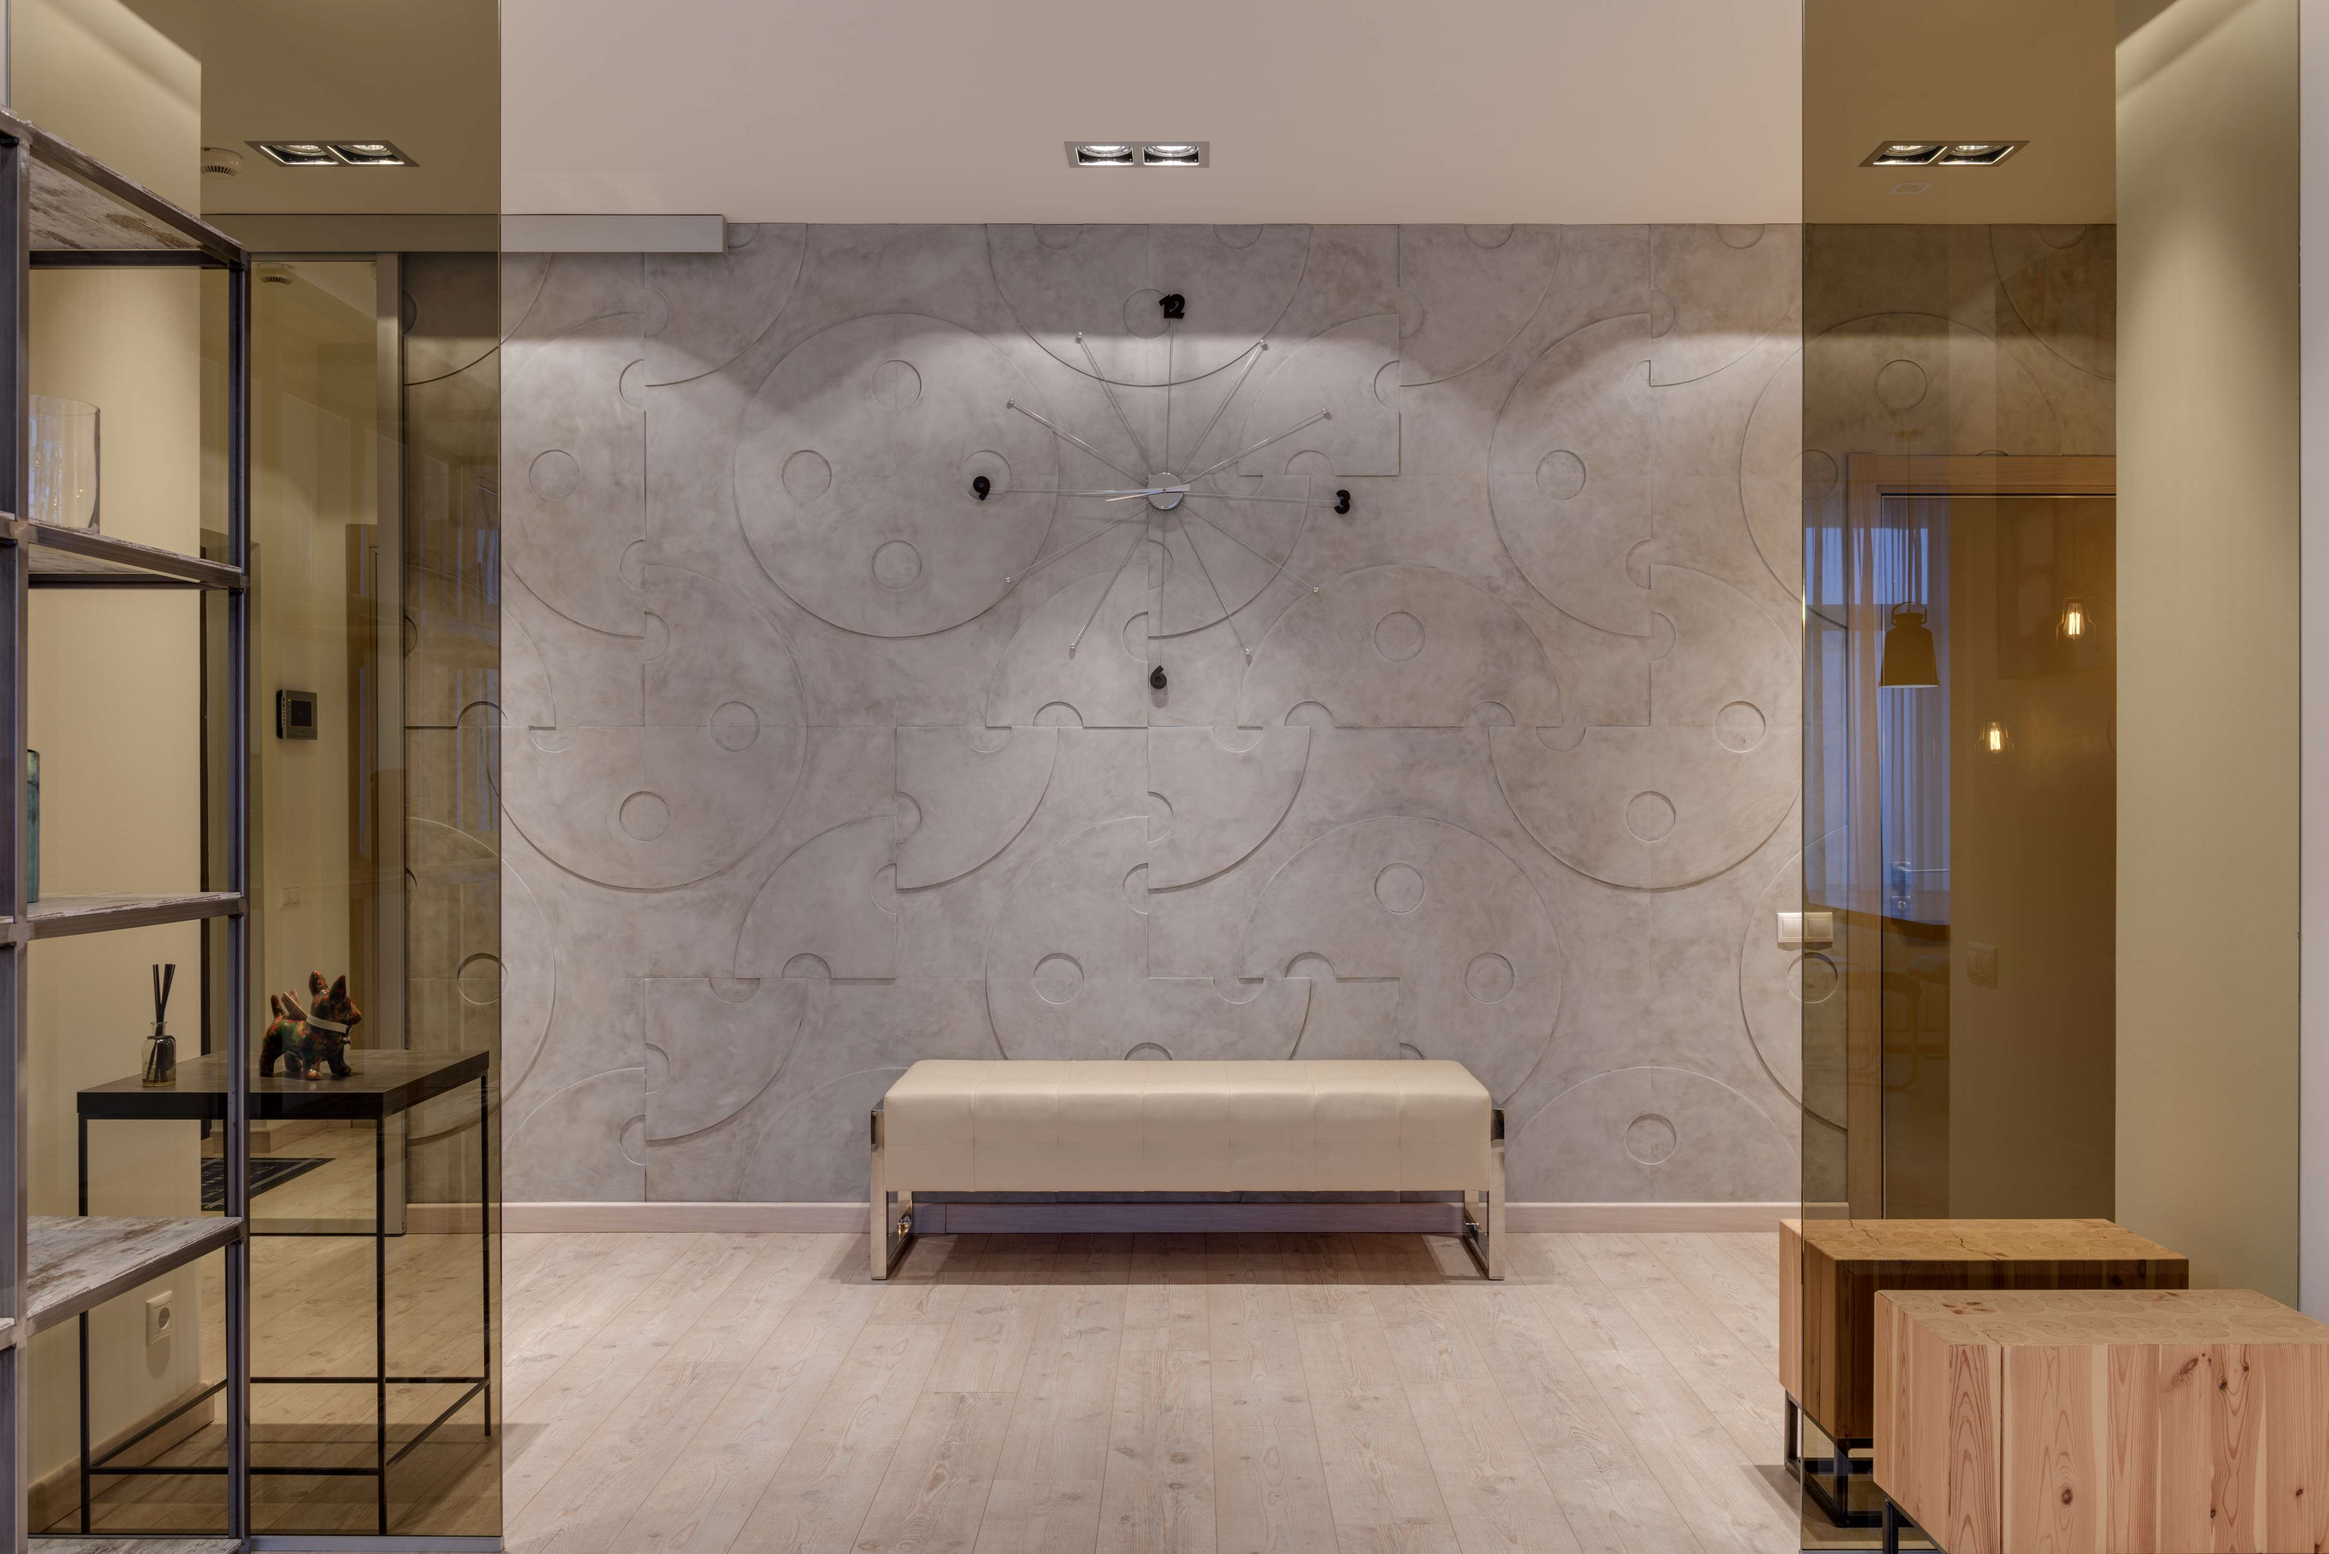
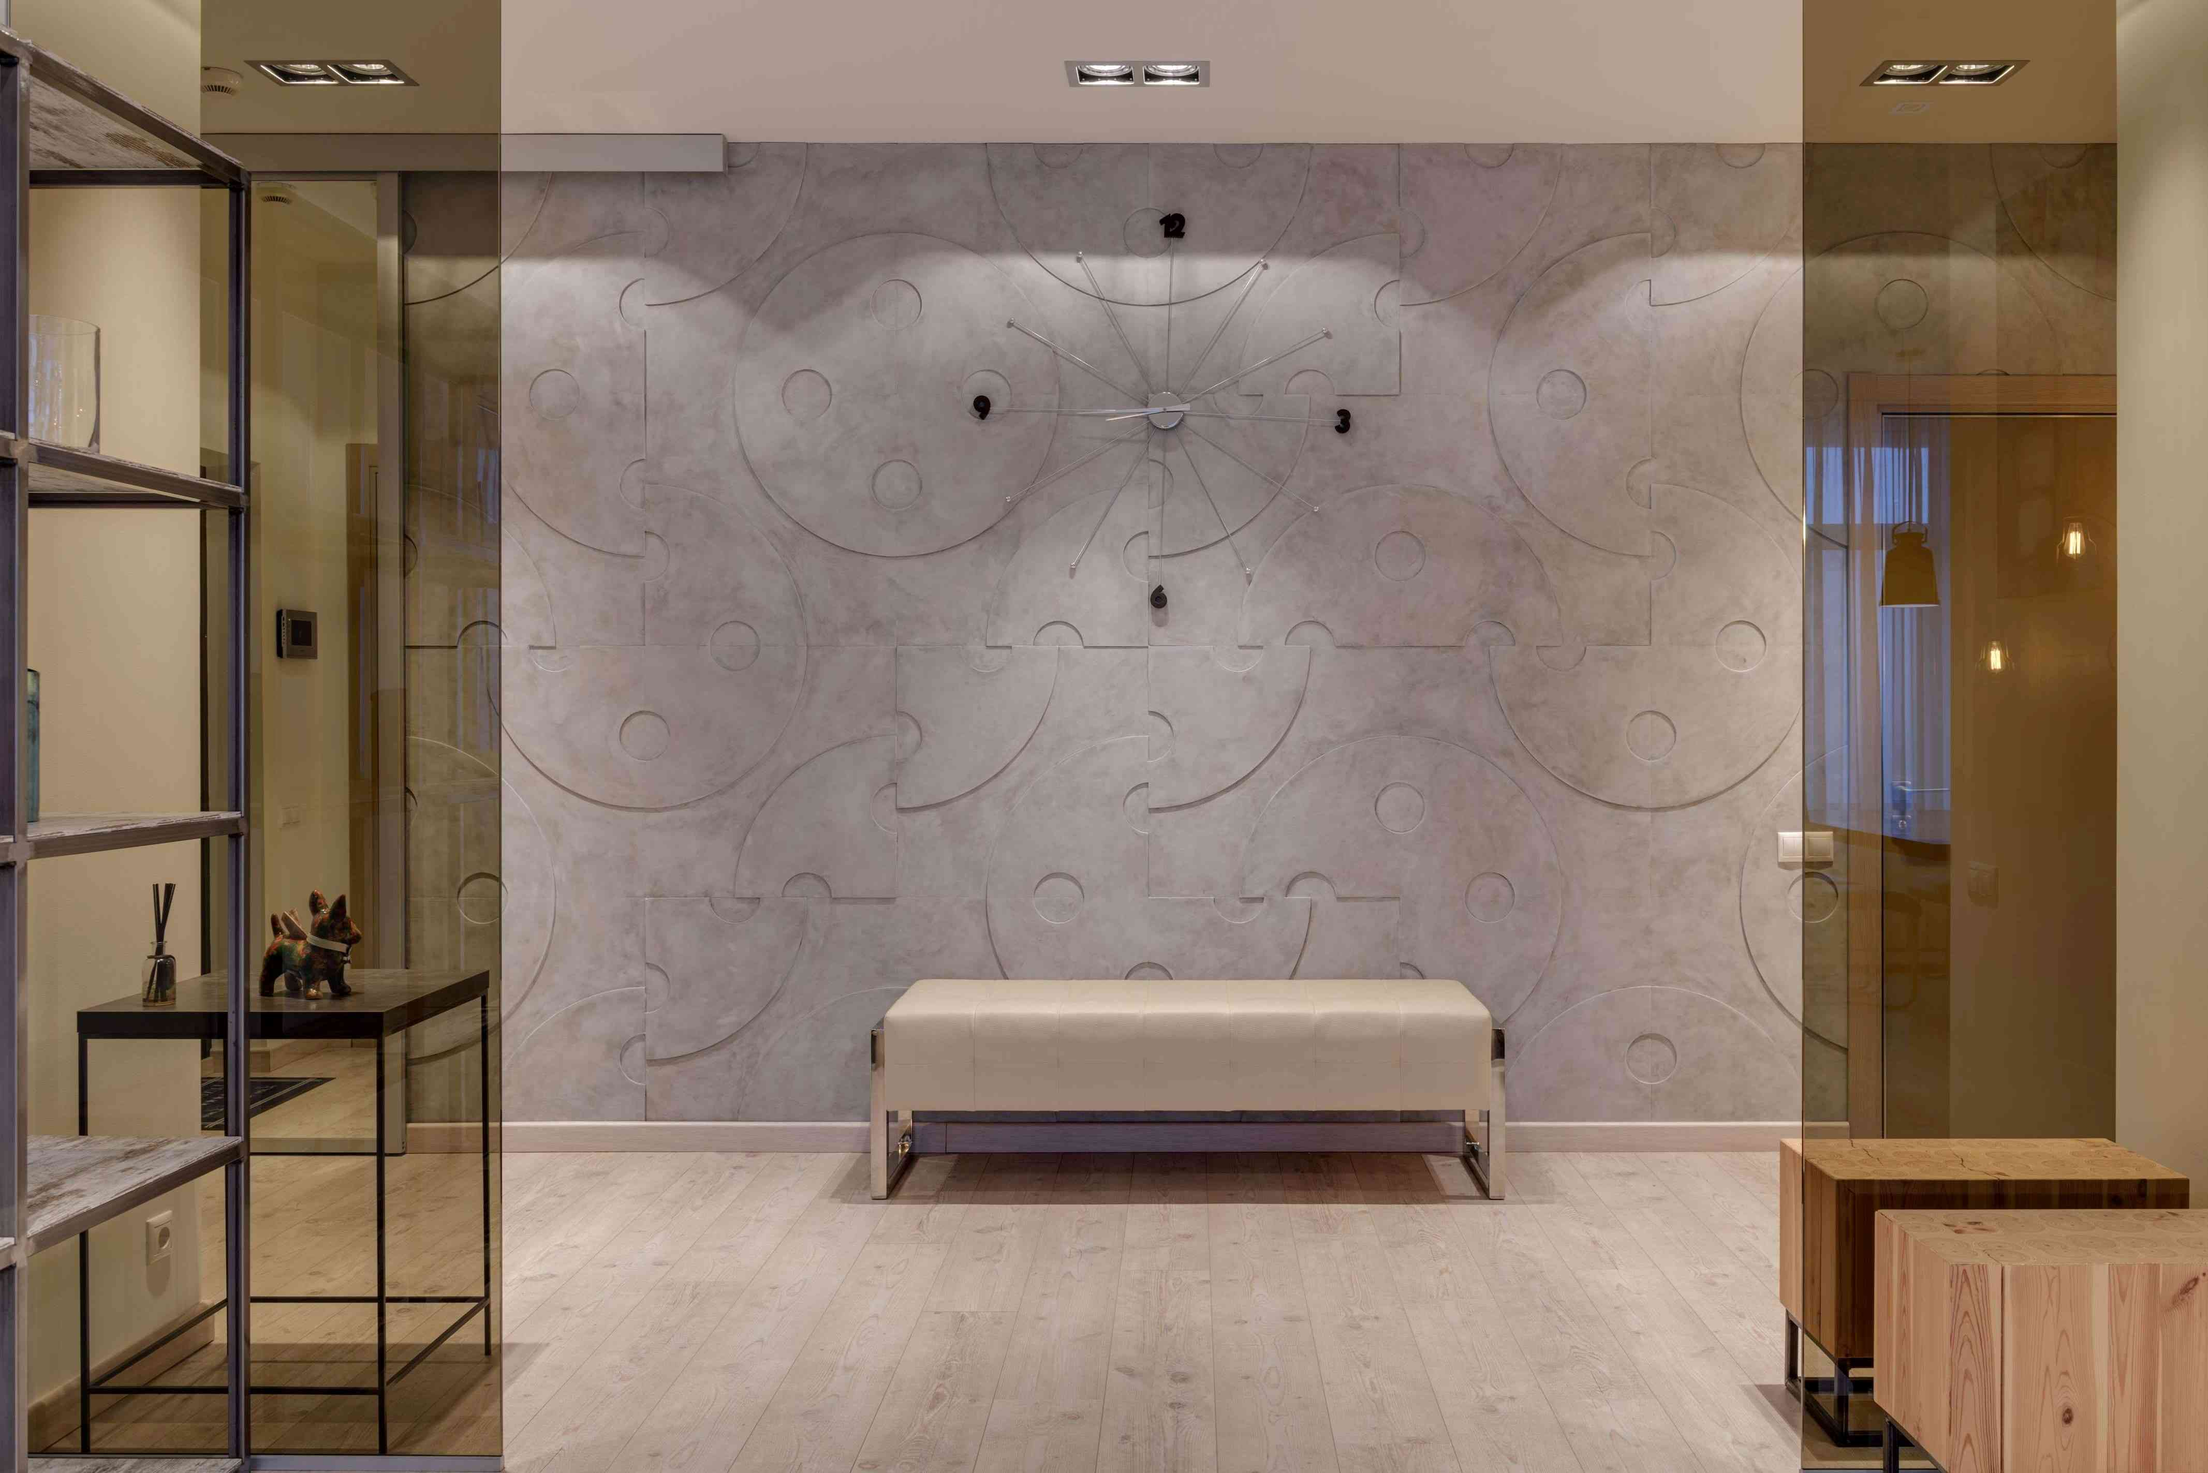
resize image improve performance

diff --git a/index.html b/index.html
@@ -80,7 +80,7 @@
         </nav>  
     </header>
     <div class="container-fluid">
-      <img src="openspace6.jpg" class="img-fluid" alt="...">
+      <img src="openspace8.jpg" class="img-fluid" alt="...">
       </div>  
     <div id="aob" class="container-fluid">
             <h2 class="text-center">ABOUT OUR BUSINESS</h2>  
@@ -138,7 +138,7 @@
     <div class="container-fluid no padding">  
             <div class="row-md-8- center">
               <div class="col-md-8 ">
-                <img src="desk_work_architecte.jpg" class="img-fluid" alt="responsive">
+                <img src="chanel3.jpg" class="img-fluid" alt="responsive">
               </div>
          </div>  
     </div>
